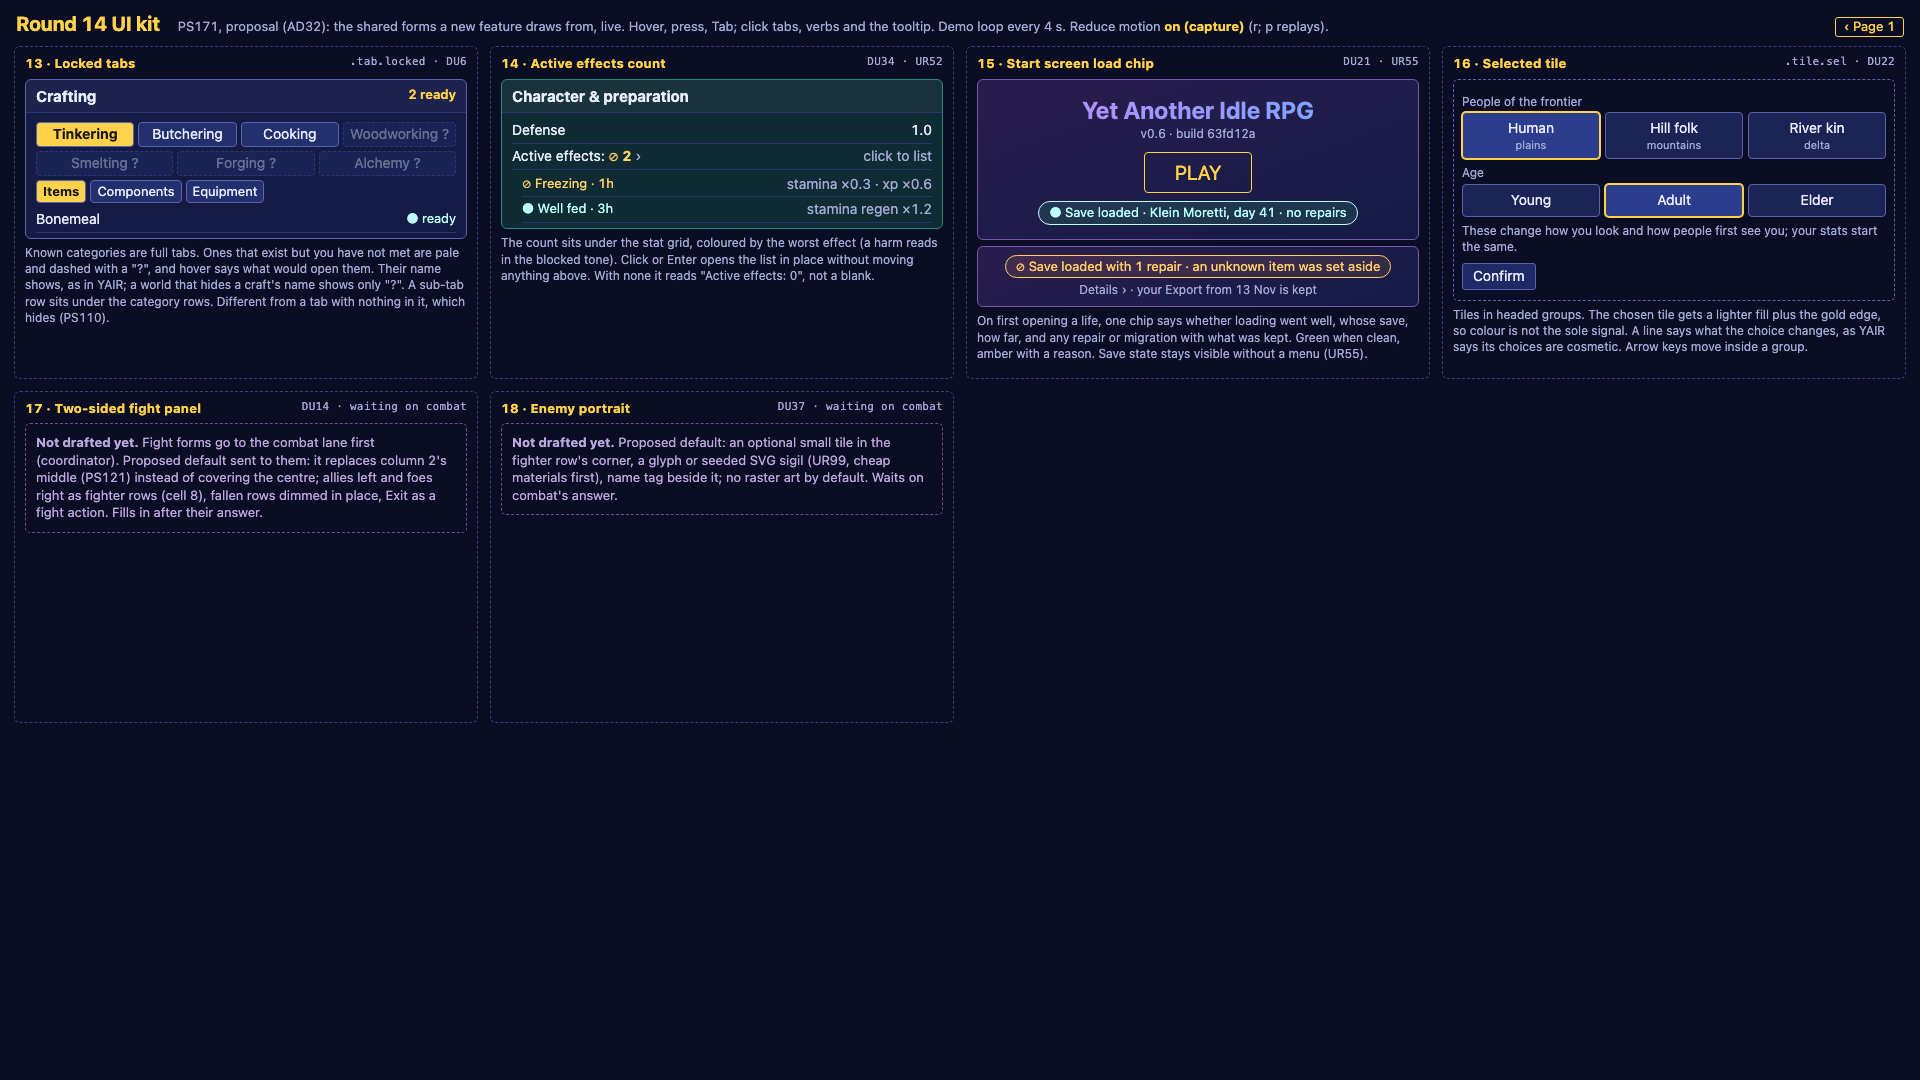
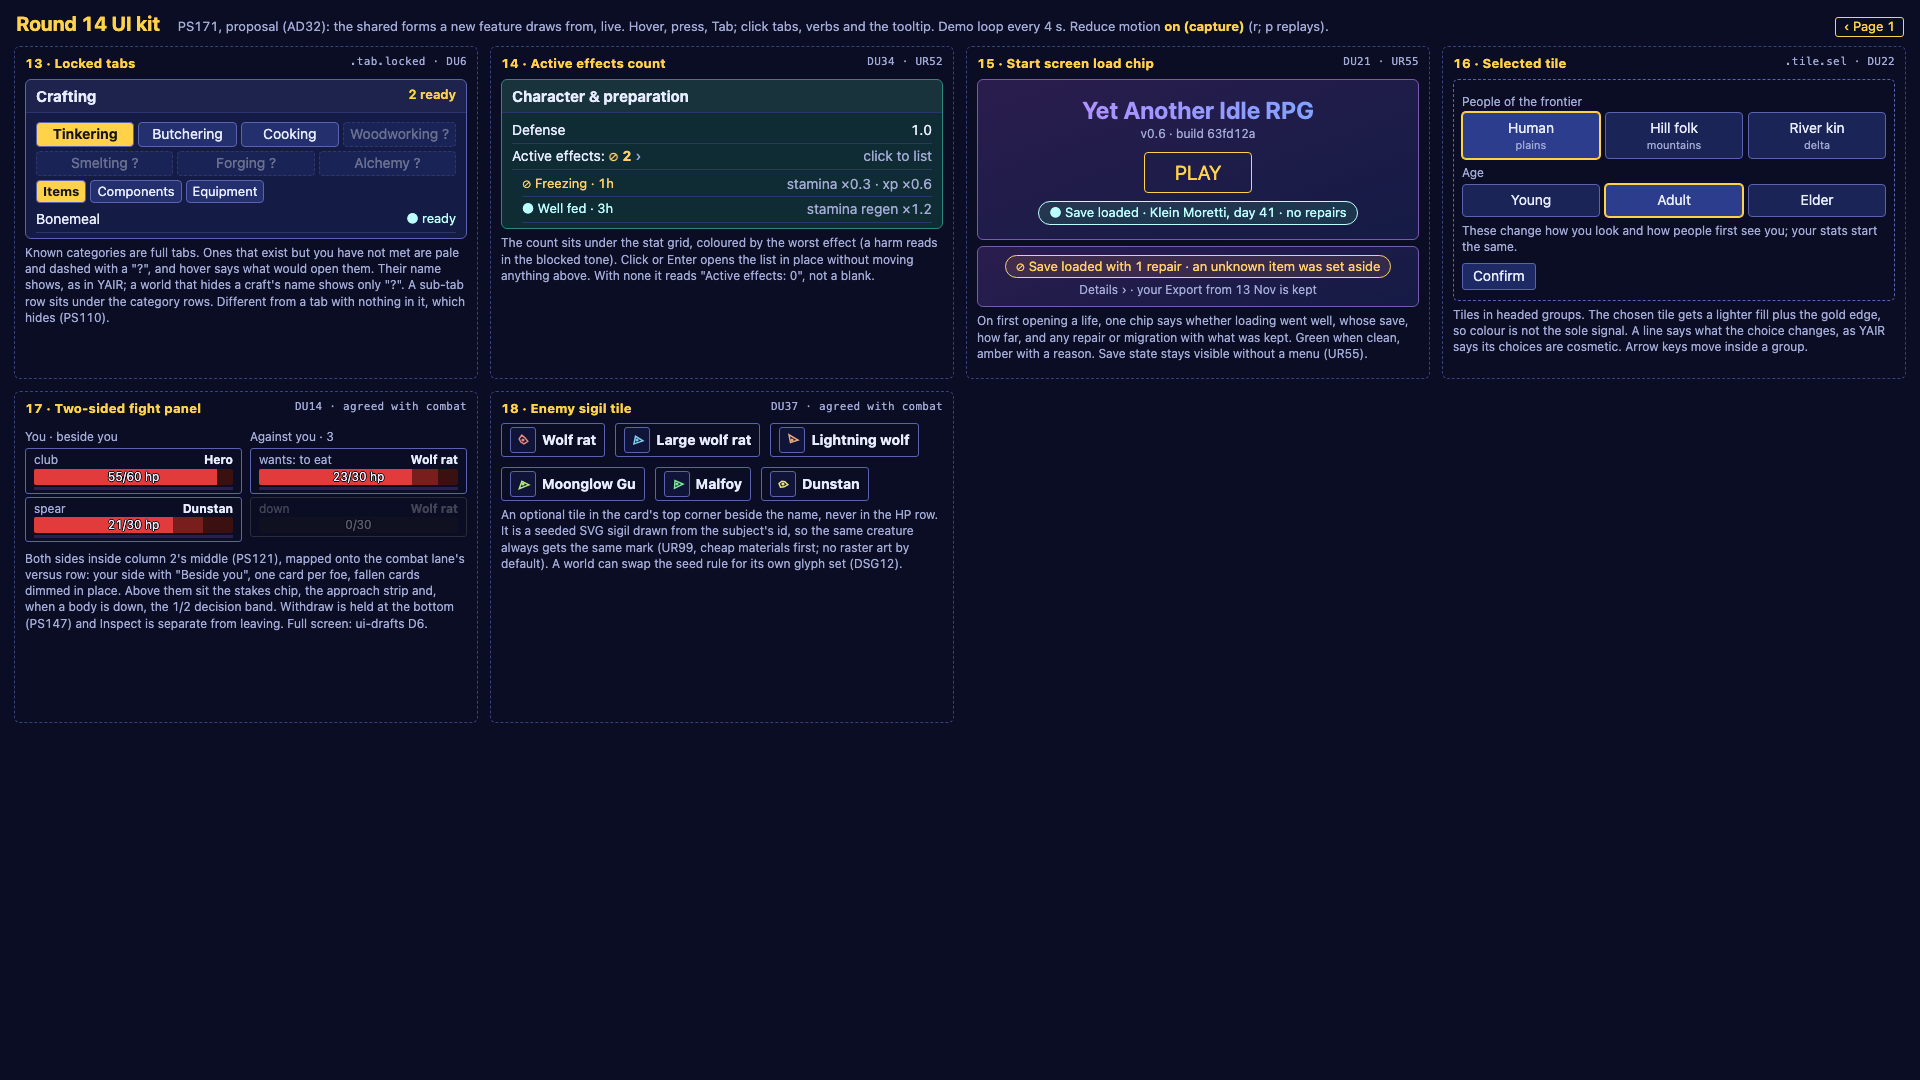
Fight forms drafted with the combat lane (DU14, DU37; proposals): two sides in column 2 on the versus row with stakes, approach strip, decision band, Withdraw held and Inspect separate (draft D6), and a seeded SVG sigil tile beside each name (kit cells 17-18)

Changed region(s): [[0.0, 0.3667, 0.4688, 0.5806]]

diff --git a/prototypes/ui-drafts-2026-11-15/index.html b/prototypes/ui-drafts-2026-11-15/index.html
@@ -91,7 +91,29 @@ body.shot #pick, body.shot .note { display:none; }
 .spec h4 { margin:0 0 4px; font-size:12px; color:var(--gold); letter-spacing:.03em; }
 .spec div { display:grid; grid-template-columns:78px 1fr; gap:6px; padding:2px 0; border-bottom:1px solid #1d2350; } .spec b { color:var(--muted); font-weight:600; }
 .spec p { margin:4px 0 0; color:var(--muted); font-size:11.5px; }
-.c4 .box.rep { flex:1 1 40%; } .c3 .head-run .bar { height:19px; }
+.c4 .box.rep { flex:1 1 40%; }
+/* D6 fight panel (DU14, DU37), class names after the combat lane's src/ui/combat_versus.js; mount point left open. */
+.fight2 { display:flex; flex-direction:column; gap:6px; padding:6px 10px; }
+.stakes { align-self:flex-start; font-size:12.5px; border:1px solid var(--danger); color:var(--danger); border-radius:10px; padding:1px 9px; }
+.approach2 { display:grid; grid-template-columns:auto 1fr; gap:3px 10px; font-size:13px; border:1px solid var(--quiet); border-radius:3px; padding:5px 8px; }
+.approach2 .act, .band .act { border:1px solid var(--line); border-radius:3px; padding:0 6px; }
+.versus-bar.unk i { width:100%; background:repeating-linear-gradient(45deg,#3a4170 0 6px,#2a2f55 6px 12px); }
+.approach2 .act.on { border-color:var(--gold); color:var(--gold); } .approach2 .act { margin-right:3px; font-size:12.5px; }
+.versus { display:grid; grid-template-columns:1fr 1.25fr; gap:10px; } .versus h5 { margin:0 0 3px; font-size:12px; color:var(--muted); letter-spacing:.05em; text-transform:uppercase; }
+.versus-card { position:relative; border:1px solid var(--line); border-radius:3px; padding:5px 8px 5px 8px; margin-bottom:6px; background:rgba(255,255,255,.02); transition:opacity .6s, filter .6s; }
+.versus-card[data-down] { opacity:.38; filter:grayscale(1); } .versus-card .nm { display:flex; align-items:center; gap:6px; font-weight:700; font-size:14px; padding-right:2px; }
+.versus-card .nm small { font-weight:400; color:var(--muted); margin-left:auto; font-size:12px; }
+.sigil { width:24px; height:24px; flex:0 0 24px; border:1px solid var(--line); border-radius:3px; background:#0f1438; }
+.versus-bar { position:relative; height:15px; background:#3a1010; border-radius:2px; margin:3px 0; font-size:11.5px; line-height:15px; text-align:center; overflow:hidden; }
+.versus-bar i { position:absolute; left:0; top:0; bottom:0; width:var(--f); background:#e23b3b; } .versus-bar b { position:absolute; left:0; top:0; bottom:0; width:var(--l); background:#7a1d1d; }
+.versus-bar span { position:relative; text-shadow:-1px 0 #000,1px 0 #000,0 -1px #000,0 1px #000; }
+.versus-bar--you i { background:#e2763b; } .versus-bar--stamina { height:9px; background:#16301f; } .versus-bar--stamina i { background:var(--st); }
+.versus-bar--timer { height:3px; background:#2a2050; margin:2px 0 3px; } .versus-bar--timer i { background:#9d7bff; }
+.versus-means, .versus-wants { margin:1px 0; font-size:12.5px; color:var(--muted); } .versus-wants { color:var(--text); }
+.inspect { position:absolute; right:6px; bottom:4px; font-size:11.5px; color:var(--muted); border:1px solid var(--quiet); border-radius:3px; padding:0 5px; }
+.band { border:1px solid var(--gold); border-radius:3px; padding:6px 9px; background:rgba(255,210,74,.06); font-size:14px; }
+.band .key { font:11px ui-monospace,monospace; border:1px solid var(--muted); border-radius:2px; padding:0 4px; margin-right:4px; color:var(--muted); }
+.held { display:flex; gap:8px; border-top:1px solid var(--quiet); padding-top:6px; margin-top:auto; } .held .verb { flex:1; margin:0; font-size:15px; } .c3 .head-run .bar { height:19px; }
 #dtitle { position:fixed; left:398px; bottom:42px; font-size:11px; color:var(--muted); }
 /* Compare view: the draft beside today's screen of the same life. */
 #cmp { display:none; position:absolute; inset:0; background:#000; }
@@ -143,6 +165,15 @@ const C1K = (mid, inv) => [
 const KLEIN_INV = h('div', 'm', 'Your purse contains: 1 penny') + row('☆ Notebook, pen and ink', '') + row('☆ Revolver (canon, at the desk)', '') + tabs(['Sort by name', 'Sort by value', 'Sort by type'], 'Sort by name', 'sm');
 const KLEIN_TIME = VILLAGE_TIME('Day 3, <b>night</b> · 00:01', 'fog · coal smoke', '2%');
 const KLEIN_LOC = box('', '', h('div', 'loc', h('div', 'name', '☆ Moretti flat') + h('div', 'desc', 'River fog and coal smoke hang over the street; you see less far than by day.') + h('div', 'here', 'Here: <a>Benson and Melissa</a> · <a>the desk</a> · <a>1 way out</a>')) + h('div', 'status2', 'No work running.&nbsp;&nbsp; Saving available.'));
+
+// DU37: a seeded SVG sigil from the subject's name (UR99, cheap materials; no raster art).
+const sigil = name => { let x = 0; for (const c of name) x = (x * 31 + c.charCodeAt(0)) >>> 0; const pts = [];
+  const n = 3 + (x % 4); for (let i = 0; i < n; i++) { const a = (i / n) * 6.283 + (x % 7) / 7, r = 6 + ((x >> (i * 3)) % 4); pts.push(`${12 + r * Math.cos(a)},${12 + r * Math.sin(a)}`); }
+  const hue = x % 360; return `<svg class="sigil" viewBox="0 0 24 24"><polygon points="${pts.join(' ')}" fill="none" stroke="hsl(${hue} 70% 70%)" stroke-width="1.5"/><circle cx="12" cy="12" r="1.6" fill="hsl(${hue} 70% 70%)"/></svg>`; };
+const vbar = (cls, f, l, t) => `<div class="versus-bar ${cls}" style="--f:${f}%;--l:${l}%"><b></b><i></i><span>${t}</span></div>`;
+const vcard = ({name, kind, hp, hpT, lost, st, means, wants, down, timer = 40, glyph = true}) => `<article class="versus-card"${down ? ' data-down' : ''} data-combat-subject="${name}"><div class="nm">${glyph ? sigil(name) : ''}${name}<small>${kind}</small></div>` +
+  vbar(hpT.startsWith('?') ? 'unk' : '', hp, lost ?? hp, hpT) + (st != null ? vbar('versus-bar--stamina', st, st, '') : '') + (down ? '' : `<div class="versus-bar versus-bar--timer" style="--f:${timer}%"><i></i></div>`) +
+  `<p class="versus-means">${means}</p>${wants ? `<p class="versus-wants">Wants: ${wants}</p>` : ''}<span class="inspect">Inspect</span></article>`;
 const DRAFTS = {
   d1: {
     title: 'D1 · Klein\'s work day (SFC10)', today: 'lotm-tingen-day3.png',
@@ -221,6 +252,27 @@ const DRAFTS = {
       ready: 'Patrol: wolves near (estimated count); Board: parts held ("6 eyes · 2 pelts"); none when the tide is off', known: 'merit and its entries, parts held, wolves killed',
       est: 'wolves near the wall, refill time', unk: 'large and frenzy wolves until seen; gate merit before it is paid', empty: 'Tide line hidden when no tide; Data: "No merit yet. The board pays for wolf parts."',
       today: 'A description line and the patrol report; merit paid in four places (AT41)', codes: 'PS120, PS130, PS143, DSG11; waits on PS2 and PS3 (one wolf owner, one merit writer). Phases from ri_wolf_tide.js; counts are examples.'}),
+  },
+  d6: {
+    title: 'D6 · Two sides in column 2 (DU14) with sigil tiles (DU37)', today: 'ri-fang-yuan-wild-gu.png',
+    c1: C1({hp: '55/60 hp', st: '36/40 stamina', invTab: 'Combat', combat: row('Atk 1.2 · Spd 1 · AP 32 · Def 1') + row('<b>Normal Stance</b>', '<span class="m">[ change ]</span>')}),
+    c2: [VILLAGE_TIME('01/04/999 08:30, Summer, Mon, <b>Day</b>', '15.3°C', '36%'),
+      draft('Infested field', 'open · groups left 14 / 15 · Clears: 0', '<div class="fight2">' +
+        '<span class="stakes">Out here a fight runs to the finish unless someone yields</span>' +
+        h('div', 'approach2', '<span class="m">Stance</span><span><span class="act on">Normal ▾</span></span><span class="m">If they go down</span><span><span class="act">Finish</span><span class="act on">Spare</span><span class="act">Ask me</span></span><span class="m">If I am losing</span><span><span class="act on">Fight on</span><span class="act">Yield</span><span class="act">Break off at a third</span></span>') +
+        '<div class="versus"><section class="versus-side--you"><h5>You</h5>' + vcard({name: 'Hero', kind: 'you', hp: 92, hpT: '55/60 hp', st: 90, means: 'Means: oak club, 1 bludgeoning', glyph: false, timer: 70}) +
+          '<h5>Beside you</h5>' + vcard({name: 'Dunstan', kind: 'ally · trader', hp: 70, lost: 85, hpT: '21/30 hp', st: 60, means: 'Means: short spear', wants: 'to get back to his stall', timer: 20}) + '</section>' +
+        '<section><h5>Against you · 3</h5>' + vcard({name: 'Wolf rat', kind: 'light', hp: 77, lost: 90, hpT: '23/30 hp', st: 70, means: 'Means: bite, 6 piercing · Hit you 32%', wants: 'to eat', timer: 55}) +
+          vcard({name: 'Wolf rat ', kind: 'down', hp: 0, hpT: '0/30 hp · down', means: 'Means: bite', down: true}) +
+          vcard({name: 'Large wolf rat', kind: 'unread', hp: 100, hpT: '?/? hp', means: 'Means: ?', wants: '?', timer: 10}) + '</section></div>' +
+        h('div', 'band', '<b>The wolf rat is down.</b> <span class="key">1</span><span class="act">Finish it</span> <span class="key">2</span><span class="act">Spare it</span> <span class="m">· your default: Spare</span><div class="m" style="font-size:12.5px;margin-top:3px">▸ Other moves (3): Withdraw · Yield · Fight on (auto)</div>') +
+        '<div class="held">' + verb('⇠', 'Withdraw: back to Village [15m]', 'held in place') + verb('⌕', 'Inspect a fighter', 'separate') + '</div></div>', 'grow')].join(''),
+    c3: JOURNAL('Bestiary', row('<b>Wolf rat</b>', 'seen 3 · Atk ~4') + row('Large wolf rat', unk('?', 'Not watched fighting yet.'))) + SKILLS('Skills', [], row('Club', 'Lv 1')),
+    c4: REPORTS('<b class="g">Right now</b><br>A wolf rat is down: Finish or Spare (1 / 2). Two still stand.', ['[ Entering Infested field ]', 'A fight began: 3 wolf rats.', '<span class="m">Combat lines go to the Combat filter (DU16).</span>'], 'Combat') + spec({code: 'D6 · DU14, DU37 (with the combat lane)',
+      box: '2 · column 2\'s middle (PS121); the mount point waits on ui-cohesion\'s slot selector', verb: 'Fight moves: Finish / Spare on the decision band (1 / 2), Withdraw held at the bottom (PS147), Inspect separate from leaving; "Other moves (n)" folds the rest',
+      ready: 'The decision band is the ready state: a body is down or yields; the Reports head says so', known: 'your HP and stamina, allies\' HP, foes you have watched (HP, means, hit chance)',
+      est: 'a watched foe\'s attack (~4); the attack timer is a rhythm, not a number', unk: 'an unread foe\'s HP, means and wants ("?/? hp")', empty: 'No one against you: the card closes and the location box returns (PS121)',
+      today: 'The live fight card (src/ui/combat_versus.js, combat lane): this mock arranges its parts as two sides; no runtime file touched', codes: 'DU10-DU12, DU14, DU16, DU37, PS121, PS130, PS147, UR99. Fallen foes dim in place as in e36cd2913. Timer styling: feel-finish.'}),
   },
 };
 const P = new URLSearchParams(location.search), id = P.get('d') || 'd1', D = DRAFTS[id];

diff --git a/prototypes/ui-kit-2026-11-15/index.html b/prototypes/ui-kit-2026-11-15/index.html
@@ -151,6 +151,7 @@ main[hidden] { display:none; } .pager { margin-left:auto; color:var(--gold); bor
 .tiles { display:grid; grid-template-columns:repeat(3,1fr); gap:5px; } .tile { border:1px solid var(--line); border-radius:4px; padding:6px; text-align:center; font-size:14px; cursor:pointer; background:#1a2456; }
 .tile:hover { border-color:#a9a6d0; } .tile.sel { background:#2d3d8e; border-color:var(--gold); box-shadow:0 0 0 1px var(--gold); } .tile small { display:block; color:var(--muted); font-size:11px; }
 .tilegrp { font-size:12px; color:var(--muted); margin:6px 0 2px; } .createbox { border:1px dashed var(--line); border-radius:5px; padding:8px; }
+.two { display:grid; grid-template-columns:1fr 1fr; gap:8px; } .sigtile { display:flex; align-items:center; gap:6px; border:1px solid var(--line); border-radius:3px; padding:3px 8px; font-size:14px; font-weight:700; }
 .pending { border:1px dashed #6c4f8f; border-radius:5px; padding:10px; color:#bda7dd; font-size:13px; }
 </style>
 </head>
@@ -309,17 +310,24 @@ main[hidden] { display:none; } .pager { margin-left:auto; color:var(--gold); bor
     <span class="btn" tabindex="0">Confirm</span></div>
   <div class="cap">Tiles in headed groups. The chosen tile gets a lighter fill plus the gold edge, so colour is not the sole signal. A line says what the choice changes, as YAIR says its choices are cosmetic. Arrow keys move inside a group.</div>
 </section>
-<section class="cell"><h2>17 · Two-sided fight panel <code>DU14 · waiting on combat</code></h2>
-  <div class="pending"><b>Not drafted yet.</b> Fight forms go to the combat lane first (coordinator). Proposed default sent to them: it replaces column 2's middle (PS121) instead of covering the centre; allies left and foes right as fighter rows (cell 8), fallen rows dimmed in place, Exit as a fight action. Fills in after their answer.</div>
+<section class="cell"><h2>17 · Two-sided fight panel <code>DU14 · agreed with combat</code></h2>
+  <div class="two"><div><div class="tilegrp">You · beside you</div><div class="fighter"><div class="fst"><span>club</span><b style="color:var(--text)">Hero</b></div><div class="hpb" style="--f:92%;--lost:92%"><b></b><i></i><span>55/60 hp</span></div><div class="timer"><i></i></div></div><div class="fighter"><div class="fst"><span>spear</span><b style="color:var(--text)">Dunstan</b></div><div class="hpb" style="--f:70%;--lost:85%"><b></b><i></i><span>21/30 hp</span></div><div class="timer"><i></i></div></div></div>
+  <div><div class="tilegrp">Against you · 3</div><div class="fighter"><div class="fst"><span>wants: to eat</span><b style="color:var(--text)">Wolf rat</b></div><div class="hpb" style="--f:77%;--lost:90%"><b></b><i></i><span>23/30 hp</span></div><div class="timer"><i></i></div></div><div class="fighter down"><div class="fst"><span>down</span><b>Wolf rat</b></div><div class="hpb" style="--f:0%;--lost:0%"><b></b><i></i><span>0/30</span></div></div></div></div>
+  <div class="cap">Both sides inside column 2's middle (PS121), mapped onto the combat lane's versus row: your side with "Beside you", one card per foe, fallen cards dimmed in place. Above them sit the stakes chip, the approach strip and, when a body is down, the 1/2 decision band. Withdraw is held at the bottom (PS147) and Inspect is separate from leaving. Full screen: ui-drafts D6.</div>
 </section>
-<section class="cell"><h2>18 · Enemy portrait <code>DU37 · waiting on combat</code></h2>
-  <div class="pending"><b>Not drafted yet.</b> Proposed default: an optional small tile in the fighter row's corner, a glyph or seeded SVG sigil (UR99, cheap materials first), name tag beside it; no raster art by default. Waits on combat's answer.</div>
+<section class="cell"><h2>18 · Enemy sigil tile <code>DU37 · agreed with combat</code></h2>
+  <div id="sigils" style="display:flex;gap:10px;flex-wrap:wrap"></div>
+  <div class="cap">An optional tile in the card's top corner beside the name, never in the HP row. It is a seeded SVG sigil drawn from the subject's id, so the same creature always gets the same mark (UR99, cheap materials first; no raster art by default). A world can swap the seed rule for its own glyph set (DSG12).</div>
 </section>
 </main>
 <script>
 const $ = id => document.getElementById(id), body = document.body, rmState = $('rmstate');
 const restart = (el, cls) => { el.classList.remove(cls); void el.offsetWidth; el.classList.add(cls); };
 const P = new URLSearchParams(location.search);
+const sigil = name => { let x = 0; for (const c of name) x = (x * 31 + c.charCodeAt(0)) >>> 0; const pts = []; const n = 3 + (x % 4);
+  for (let i = 0; i < n; i++) { const a = (i / n) * 6.283 + (x % 7) / 7, r = 6 + ((x >> (i * 3)) % 4); pts.push(`${12 + r * Math.cos(a)},${12 + r * Math.sin(a)}`); }
+  const hue = x % 360; return `<svg viewBox="0 0 24 24" width="26" height="26" style="border:1px solid var(--line);border-radius:3px;background:#0f1438"><polygon points="${pts.join(' ')}" fill="none" stroke="hsl(${hue} 70% 70%)" stroke-width="1.5"/><circle cx="12" cy="12" r="1.6" fill="hsl(${hue} 70% 70%)"/></svg>`; };
+$('sigils').innerHTML = ['Wolf rat', 'Large wolf rat', 'Lightning wolf', 'Moonglow Gu', 'Malfoy', 'Dunstan'].map(n => `<span class="sigtile">${sigil(n)}${n}</span>`).join('');
 const page = n => { $('p1').hidden = n !== 1; $('p2').hidden = n !== 2; $('pager').textContent = n === 1 ? 'Page 2 ›' : '‹ Page 1'; };
 $('pager').addEventListener('click', () => page($('p1').hidden ? 1 : 2));
 $('fxRow').addEventListener('click', () => { $('fxList').hidden = !$('fxList').hidden; });

diff --git a/prototypes/ui-kit-2026-11-15/README.md b/prototypes/ui-kit-2026-11-15/README.md
@@ -12,7 +12,7 @@ It links `styles/ui_tokens.css` for the PS103 state tokens and the tooltip fill.
 |---|---|
 | kit.png | All twelve cells, still (`?still`) |
 | kit-live-frame.png | A frame from the live loop: ready verb, eased bar, damaged fighter, awake Combat tab |
-| kit-page2.png | Page 2 (`?page=2`, or the Page 2 button): forms from the DU review that had no owner. DU6 pale locked tabs, DU34 active-effects count (opened), DU21 start-screen load chip (clean and repaired), DU22 selected tile. DU14 two-sided fight panel and DU37 enemy portrait are placeholders until the combat lane answers |
+| kit-page2.png | Page 2 (`?page=2`, or the Page 2 button): forms from the DU review that had no owner. DU6 pale locked tabs, DU34 active-effects count (opened), DU21 start-screen load chip (clean and repaired), DU22 selected tile. DU14 two-sided fight panel and DU37 sigil tile in a compact form, agreed with the combat lane; the full fight screen is ui-drafts D6 |
 | kit-tooltip-pinned.png | The tooltip pinned: chance, have/need per material, the XP breakdown and the interruption outcome |
 
 Sources: rounds 14 to 16 in the [play surface considerations](../../docs/gm/dispatch/play-surface-2026-11-14/CONSIDERATIONS.md) (PS103, PS109, PS119 to PS157) and the [Discord UI elements review](../../docs/research/yair-upstream/DISCORD_UI_ELEMENTS_REVIEW_2026-11-15.md). Folded in from that review: DU1, DU2, DU3, DU8, DU10, DU11, DU12, DU19, DU20, DU29 and DU35. UI_RULES codes cited: UR32, UR43, UR52, UR100 and UR125.

diff --git a/prototypes/ui-drafts-2026-11-15/README.md b/prototypes/ui-drafts-2026-11-15/README.md
@@ -17,6 +17,7 @@ Open `index.html?d=d1` to `d5` (keys 1 to 5). Add `&cmp` to show a draft beside 
 | D3 · capture-d3.png, compare-d3.jpg | SFC13 and SFC14 Harry: **Attend** verb for lessons and papers, exams in Journal · Quests, duel setup in Inventory & combat · Combat | `hp-exam-week` household day |
 | D4 · capture-d4.png, compare-d4.jpg | SFC15 and SFC16 Fang Yuan: Skills · **Gu** tab (aperture head, hunger per Gu), and the **Refine** bench replacing the actions box | `ri-fang-yuan-wild-gu` beginning panel |
 | D5 · capture-d5.png, compare-d5.jpg | SFC20 the wolf tide as a location-box line, **Patrol** targets, and one "Battle merit" ledger | `ri-fang-yuan-wild-gu` (no tide readout exists) |
+| D6 · capture-d6.png | DU14 and DU37, agreed with the combat lane: two sides in column 2's middle, laid out on their versus row (your side with "Beside you", one card per foe, fallen dimmed in place). Above the rows sit the stakes chip, the approach strip and the 1/2 decision band with "Other moves (n)". Withdraw is held at the bottom and Inspect is separate. A seeded SVG sigil sits by each name. No runtime file is touched, and the mount point stays open for ui-cohesion's slot selector | the live fight card (combat lane) |
 
 Values come from the code where one exists:
 - Klein's pay and advance: `book_world_lotm_wage.js`.
